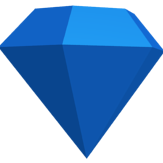
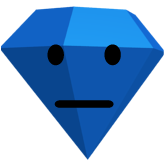
change bg,change menu, add emojis

diff --git a/sketch.js b/sketch.js
@@ -125,11 +125,11 @@ function setup() {
   
     imgs[0] = loadImage("./assets/hat1.png"); imgs[1] = loadImage("./assets/hat2.png");imgs[2] = loadImage("./assets/hat3.png");
     characters[0] = loadImage("./assets/red.png"); characters[1] = loadImage("./assets/blue.png"); characters[2] = loadImage("./assets/yellow.png");
-    happy_faces[0] = loadImage("./assets/red.png"); happy_faces[1] = loadImage("./assets/blue.png"); happy_faces[2] = loadImage("./assets/yellow.png");
-  	sad_faces[0] = loadImage("./assets/red.png"); sad_faces[1] = loadImage("./assets/blue.png"); sad_faces[2] = loadImage("./assets/yellow.png");
+    happy_faces[0] = loadImage("./assets/red_happy.png"); happy_faces[1] = loadImage("./assets/blue_happy.png"); happy_faces[2] = loadImage("./assets/yellow_happy.png");
+  	sad_faces[0] = loadImage("./assets/red_sad.png"); sad_faces[1] = loadImage("./assets/blue_sad.png"); sad_faces[2] = loadImage("./assets/yellow_sad.png");
 
 
-  	background_img = loadImage("./assets/bg.jpg");
+  	background_img = loadImage("./assets/bg3.jpg");
 }
 
 function initialize() {
@@ -175,7 +175,7 @@ function draw() {
 	}
 
 	background(backgroundColor);
-    image(background_img,0,0);
+    image(background_img,0,0,SizeW,SizeH);
 
 	if (is_falling) {
         Grids[idx].drawGrid();
@@ -232,21 +232,36 @@ function draw() {
 
 	}
 	if (gameOver) {
-		noStroke();
-		fill(255, 60);
-		rect(110, 195, 240, 2 * txtSize, 3);
-		fill(textColor);
-		text("Game Over", 120, 220);
+		textSize(SizeW*0.8/12);
+		stroke(55);strokeWeight(6);
+		fill(55, 190);
+		rect(SizeW*0.1, SizeH*0.1, SizeW*0.8, txtSize*8, 3);
+		fill(225);
+		var xoffset = SizeW*0.2;
+		var yoffset = SizeH*0.2;
+		text("Your Final Score: ", xoffset*1.1, yoffset);
+		fill(230, 230, 12);
+		textSize(SizeW*0.8/10);
+		text(score.pointsAsStr(), xoffset*2, yoffset+txtSize);
+		fill(225);
+		textSize(SizeW*0.8/12);
+		text("Click/tap to Restart", xoffset, yoffset+3*txtSize);
 	}
-	if (!gameOn) {
-		noStroke();
-		fill(255, 60);
-		rect(10, 150, 590, 10 * txtSize, 3);
-		fill(textColor);
-		text("Click to start playing", 20, 180);
-		text("Tap on both side to move the tetris", 20, 180 + 2 * txtSize);
-		text("Tap on the grid to rotate", 20, 180 + 4 * txtSize);
-		text("Swipe down to drop it", 20, 180 + 6 * txtSize);
+	if (!gameOn&&!gameOver) {
+		//noStroke();
+		textSize(SizeW*0.8/16);
+		stroke(55);strokeWeight(4);
+		fill(55, 90);
+		rect(SizeW*0.1, SizeH*0.1, SizeW*0.8, txtSize*13, 3);
+		fill(225);
+		var xoffset = SizeW*0.12;
+		var yoffset = SizeH*0.17;
+		text("Click/tap to start playing", xoffset, yoffset);
+		text("PC: ARROW Keys to control", xoffset, yoffset + 2 * txtSize);
+		text("      SHIFT or DOWN to drop", xoffset, yoffset + 4 * txtSize);
+		text("Mobile: Swipe left/right to move", xoffset, yoffset + 6 * txtSize);
+		text("             Tap to Rotate", xoffset, yoffset + 8 * txtSize);
+		text("             Swipe down to drop", xoffset, yoffset + 10 * txtSize);
 
 	}
 	if (grid != null && grid.checkEnd()) {
@@ -358,7 +373,12 @@ class Score {
 		this.points += level * 100;
 	}
 
+	pointsAsStr(){
+		return this.formatPoint(this.points);
+	}
+
 	display() {
+		textSize(q/2);
 		stroke(50);
 		push();
 		translate(10, q);
@@ -457,6 +477,7 @@ class Character{
 		}
 
 		push();
+		//translate(0,-q*1.5);
 		if(this.hatdrop==0&&this.faceAnim<this.faceAnimTime){
 			if(this.fid == 1) translate(this.sadAnim[this.faceAnim++],0);
 			if(this.fid == 2) translate(0,this.happyAnim[this.faceAnim++]);
@@ -467,6 +488,10 @@ class Character{
 		for(let i=0;i<this.hatdrop;++i) translate(0,-q/5);
 
 		if(this.hatdrop>0)this.hatdrop--;
+		else {
+			if(this.hat_id==this.cid) this.fid = 2;
+			else this.fid = 1;
+		}
 
 		if(this.hat_id==0)
 			image(imgs[this.hat_id],(offsetW-characters_size)/2,SizeH/2+characters_size*1.2/3+q,characters_size,characters_size);
@@ -490,13 +515,14 @@ class Character{
 		}
 
 		this.hat_id = -1;
+		this.fid = 0;
 	}
 
 	new_hat(hat_idx){
 		this.hat_id = hat_idx;
 		this.hatdrop = this.hatdroptime; 
 		this.faceAnim = 0;
-		this.fid = this.cid==this.hat_id?2:1;
+		//this.fid = this.cid==this.hat_id?2:1;
 	}
 
 
